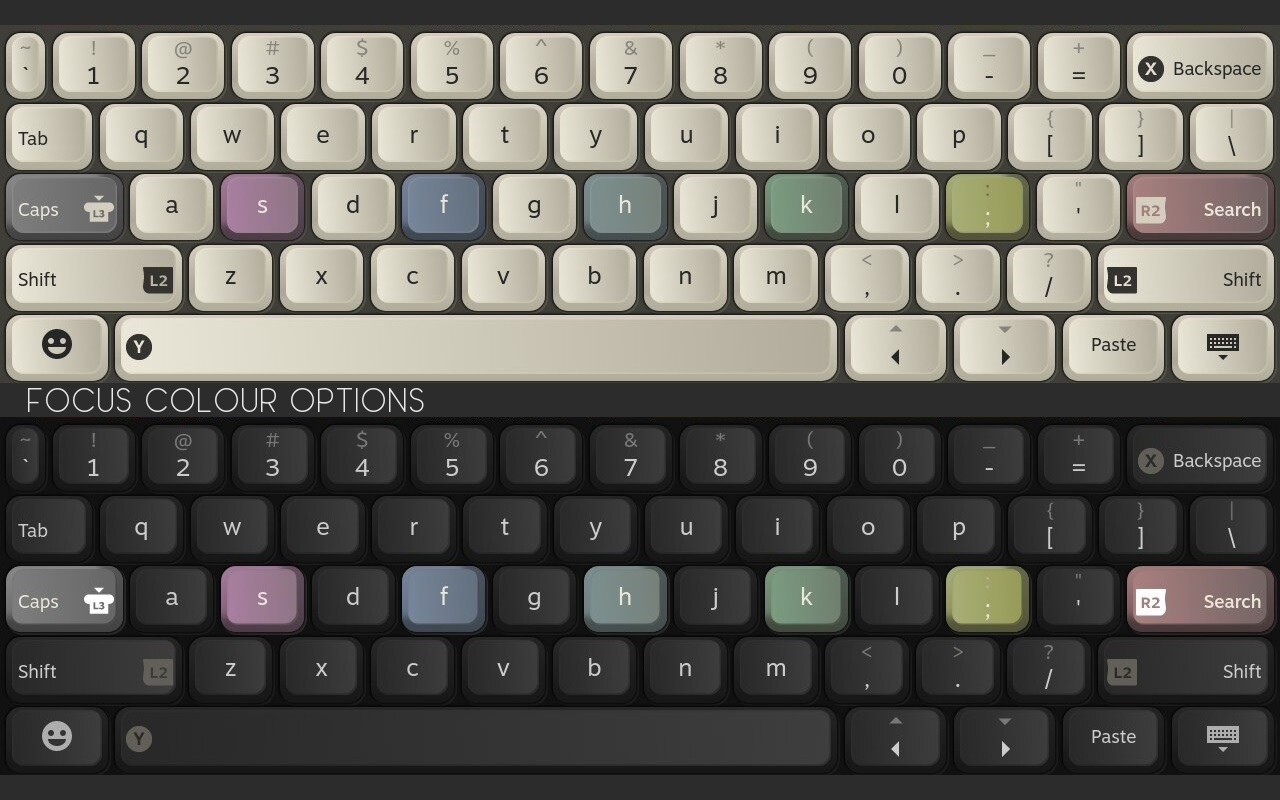
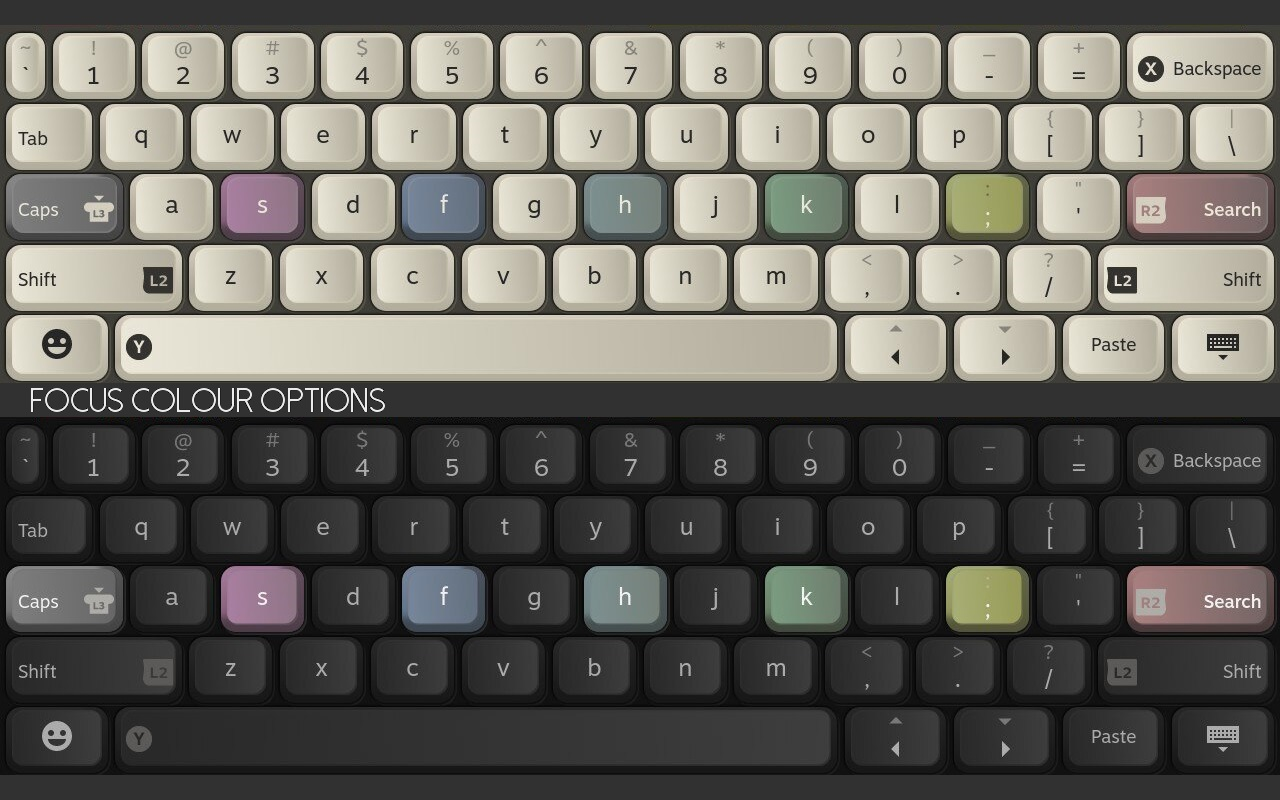
V2 - Bug Fixes & Tweaks (#3)

diff --git a/NEX-85 Keyboard/mode/dark.css b/NEX-85 Keyboard/mode/dark.css
@@ -25,11 +25,11 @@
 }
 
 .DefaultTheme .virtualkeyboard_KeyboardKey_2KhPX.virtualkeyboard_Focused_21EoN img {
-	filter: grayscale(100%);
+	filter: brightness(0) saturate(100%) invert(70%) sepia(10%) saturate(100%) hue-rotate(7deg) brightness(98%) contrast(86%);
 }
 
 .DefaultTheme .virtualkeyboard_KeyboardKey_2KhPX img {
-	filter: brightness(0) saturate(100%) invert(35%) sepia(10%) saturate(308%) hue-rotate(7deg) brightness(98%) contrast(86%);
+	filter: brightness(0) saturate(100%) invert(33%) sepia(10%) saturate(100%) hue-rotate(7deg) brightness(98%) contrast(86%);
 }
 
 .DefaultTheme .virtualkeyboard_KeyboardKey_2KhPX.virtualkeyboard_ToggleOn_3Qrs- {
@@ -56,7 +56,7 @@
 .DefaultTheme .Col_11,
 .DefaultTheme .Col_12,
 .DefaultTheme .Col_13 {
-	color: #cccccc !important;
+	color: #ababab !important;
 }
 
 .DefaultTheme .Col_0.virtualkeyboard_Focused_21EoN,
@@ -73,7 +73,7 @@
 .DefaultTheme .Col_11.virtualkeyboard_Focused_21EoN,
 .DefaultTheme .Col_12.virtualkeyboard_Focused_21EoN,
 .DefaultTheme .Col_13.virtualkeyboard_Focused_21EoN {
-	color: #ebe7d8 !important;
+	color: #f1f1f1 !important;
 }
 
 .DefaultTheme .Col_0 .virtualkeyboard_ShiftedLabel_3FZuk,
@@ -91,9 +91,4 @@
 .DefaultTheme .Col_12 .virtualkeyboard_ShiftedLabel_3FZuk,
 .DefaultTheme .Col_13 .virtualkeyboard_ShiftedLabel_3FZuk {
 	color: #cccccc;
-}
-
-.DefaultTheme .Row_4 .Col_0,
-.DefaultTheme .Row_4 .Col_6 {
-	color: #adadad !important;
 }

diff --git a/NEX-85 Keyboard/shared.css b/NEX-85 Keyboard/shared.css
@@ -3,26 +3,8 @@
 	border-radius: 10px;
 }
 
-.DefaultTheme .virtualkeyboard_KeyboardKey_2KhPX::before {
-	content: "";
-	position: absolute;
-	top: 2px;
-	left: 4px;
-	bottom: 5px;
-	right: 4px;
-	border-radius: 8px;
-}
-
-.DefaultTheme .virtualkeyboard_KeyboardKey_2KhPX.virtualkeyboard_Focused_21EoN::before {
-	content: "";
-	position: absolute;
-	top: 2px;
-	left: 4px;
-	bottom: 5px;
-	right: 4px;
-	border-radius: 8px;
-}
-
+.DefaultTheme .virtualkeyboard_KeyboardKey_2KhPX::before,
+.DefaultTheme .virtualkeyboard_KeyboardKey_2KhPX.virtualkeyboard_Focused_21EoN::before,
 .DefaultTheme .virtualkeyboard_KeyboardKey_2KhPX.virtualkeyboard_ToggleOn_3Qrs-::before {
 	content: "";
 	position: absolute;
@@ -41,6 +23,12 @@
 	position: relative;
 	z-index: 1;
 	margin-bottom: 5px;
+}
+
+.DefaultTheme .virtualkeyboard_KeyboardKey_2KhPX .virtualkeyboard_AltGrLabel_21WhT {
+	position: absolute;
+	right: 8px;
+	bottom: 6px
 }
 
 .DefaultTheme .virtualkeyboard_KeyboardActionButtonLeft_2both,
